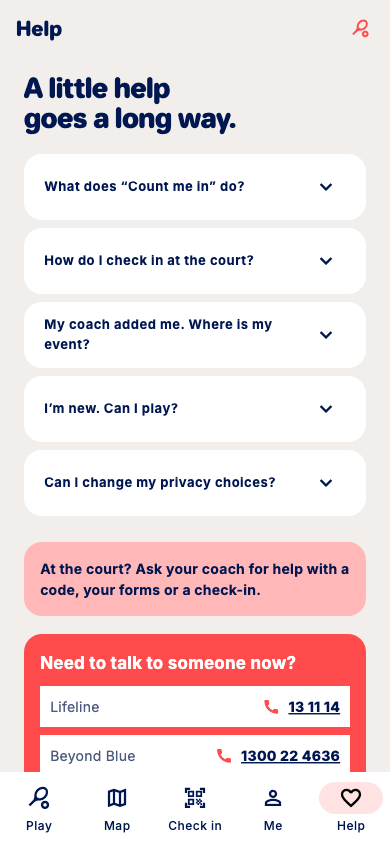
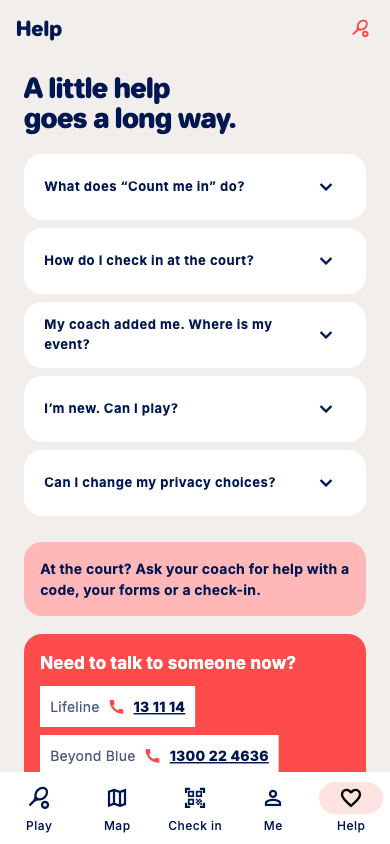
fix: fill tablet backgrounds and test phone and tablet layouts

Changed region(s): [[0.3385, 0.8009, 0.9231, 0.9242], [0.3692, 0.8934, 0.4, 0.9242], [0.2769, 0.8318, 0.3077, 0.8626]]

diff --git a/test/responsive_layout_test.dart b/test/responsive_layout_test.dart
@@ -1,4 +1,5 @@
 import 'package:flutter/material.dart';
+import 'package:flutter/services.dart';
 import 'package:flutter_map/flutter_map.dart';
 import 'package:flutter_test/flutter_test.dart';
 import 'package:rally4ever/participant/app.dart';
@@ -7,8 +8,18 @@ import 'package:timezone/data/latest.dart' as tz;
 import 'support/fake_participant.dart';
 
 void main() {
-  setUpAll(() {
+  setUpAll(() async {
     tz.initializeTimeZones();
+    await (FontLoader(
+      'MaterialIcons',
+    )..addFont(rootBundle.load('fonts/MaterialIcons-Regular.otf'))).load();
+    await (FontLoader(
+      'Inter',
+    )..addFont(rootBundle.load('assets/fonts/Inter.ttf'))).load();
+    await (FontLoader('Jellee')..addFont(
+          rootBundle.load('assets/fonts/Jellee_1223/TTF/Jellee-Bold.ttf'),
+        ))
+        .load();
   });
 
   Future<void> showHome(WidgetTester tester, Size size) async {
@@ -103,4 +114,57 @@ void main() {
       );
     },
   );
+  for (final size in [
+    const Size(393, 852),
+    const Size(800, 1280),
+    const Size(1280, 800),
+  ]) {
+    for (final page in [
+      'welcome1',
+      'welcome2',
+      'welcome3',
+      'account',
+      'home',
+      'profile',
+      'help',
+    ]) {
+      testWidgets('$page fills the screen at ${size.width}x${size.height}', (
+        tester,
+      ) async {
+        tester.view.physicalSize = size;
+        tester.view.devicePixelRatio = 1;
+        addTearDown(tester.view.resetPhysicalSize);
+        addTearDown(tester.view.resetDevicePixelRatio);
+        await tester.pumpWidget(
+          ParticipantApp(
+            repository: FakeParticipantRepository(),
+            initialPage: page,
+            cameraEnabled: false,
+            mapTilesEnabled: false,
+          ),
+        );
+        await tester.pumpAndSettle();
+        final scaffold = find.byType(Scaffold).last;
+        expect(tester.getSize(scaffold).width, size.width);
+        expect(tester.takeException(), isNull);
+        if (page == 'welcome1' || page == 'account') {
+          await expectLater(
+            find.byType(ParticipantApp),
+            matchesGoldenFile(
+              '../docs/screenshots/android20/${page}_${size.width.toInt()}x${size.height.toInt()}.png',
+            ),
+          );
+        }
+
+        if (page.startsWith('welcome')) {
+          final box = tester.widget<Scaffold>(scaffold);
+          expect(box.backgroundColor, isNot(Colors.white));
+          expect(
+            tester.getSize(find.byType(FilledButton).last).width,
+            lessThanOrEqualTo(520),
+          );
+        }
+      });
+    }
+  }
 }

diff --git a/lib/participant/app.dart b/lib/participant/app.dart
@@ -1,5 +1,4 @@
 import 'dart:async';
-import 'dart:math' as math;
 
 import 'package:flutter/material.dart';
 import 'package:flutter_map/flutter_map.dart';
@@ -382,7 +381,7 @@ class _ParticipantAppState extends State<ParticipantApp>
         color: const Color(0xffe7e2de),
         child: Center(
           child: SizedBox(
-            width: math.min(constraints.maxWidth, 520),
+            width: constraints.maxWidth,
             child: Column(
               children: [
                 if (widget.lanTesting)
@@ -894,16 +893,21 @@ class _ParticipantAppState extends State<ParticipantApp>
     );
   }
 
-  Widget introViewport(Widget child) => !widget.lanTesting
-      ? child
-      : LayoutBuilder(
-          builder: (context, constraints) => SingleChildScrollView(
-            child: ConstrainedBox(
-              constraints: BoxConstraints(minHeight: constraints.maxHeight),
-              child: IntrinsicHeight(child: child),
+  Widget introViewport(Widget child) => Center(
+    child: ConstrainedBox(
+      constraints: const BoxConstraints(maxWidth: 520),
+      child: !widget.lanTesting
+          ? child
+          : LayoutBuilder(
+              builder: (context, constraints) => SingleChildScrollView(
+                child: ConstrainedBox(
+                  constraints: BoxConstraints(minHeight: constraints.maxHeight),
+                  child: IntrinsicHeight(child: child),
+                ),
+              ),
             ),
-          ),
-        );
+    ),
+  );
 
   String sessionAvailability(Record e) {
     if (e['status'] == 'cancelled') return 'Cancelled';

diff --git a/lib/shared_widgets.dart b/lib/shared_widgets.dart
@@ -552,19 +552,27 @@ class Support extends StatelessWidget {
         onTap: () => _call(context),
         child: Padding(
           padding: const EdgeInsets.all(10),
-          child: Row(
+          child: Wrap(
+            alignment: WrapAlignment.spaceBetween,
+            crossAxisAlignment: WrapCrossAlignment.center,
+            spacing: 8,
+            runSpacing: 8,
             children: [
               Text(name),
-              const Spacer(),
-              const Icon(Icons.call, color: red, size: 18),
-              const SizedBox(width: 8),
-              Text(
-                phone,
-                style: const TextStyle(
-                  color: navy,
-                  fontWeight: FontWeight.w800,
-                  decoration: TextDecoration.underline,
-                ),
+              Row(
+                mainAxisSize: MainAxisSize.min,
+                children: [
+                  const Icon(Icons.call, color: red, size: 18),
+                  const SizedBox(width: 8),
+                  Text(
+                    phone,
+                    style: const TextStyle(
+                      color: navy,
+                      fontWeight: FontWeight.w800,
+                      decoration: TextDecoration.underline,
+                    ),
+                  ),
+                ],
               ),
             ],
           ),
